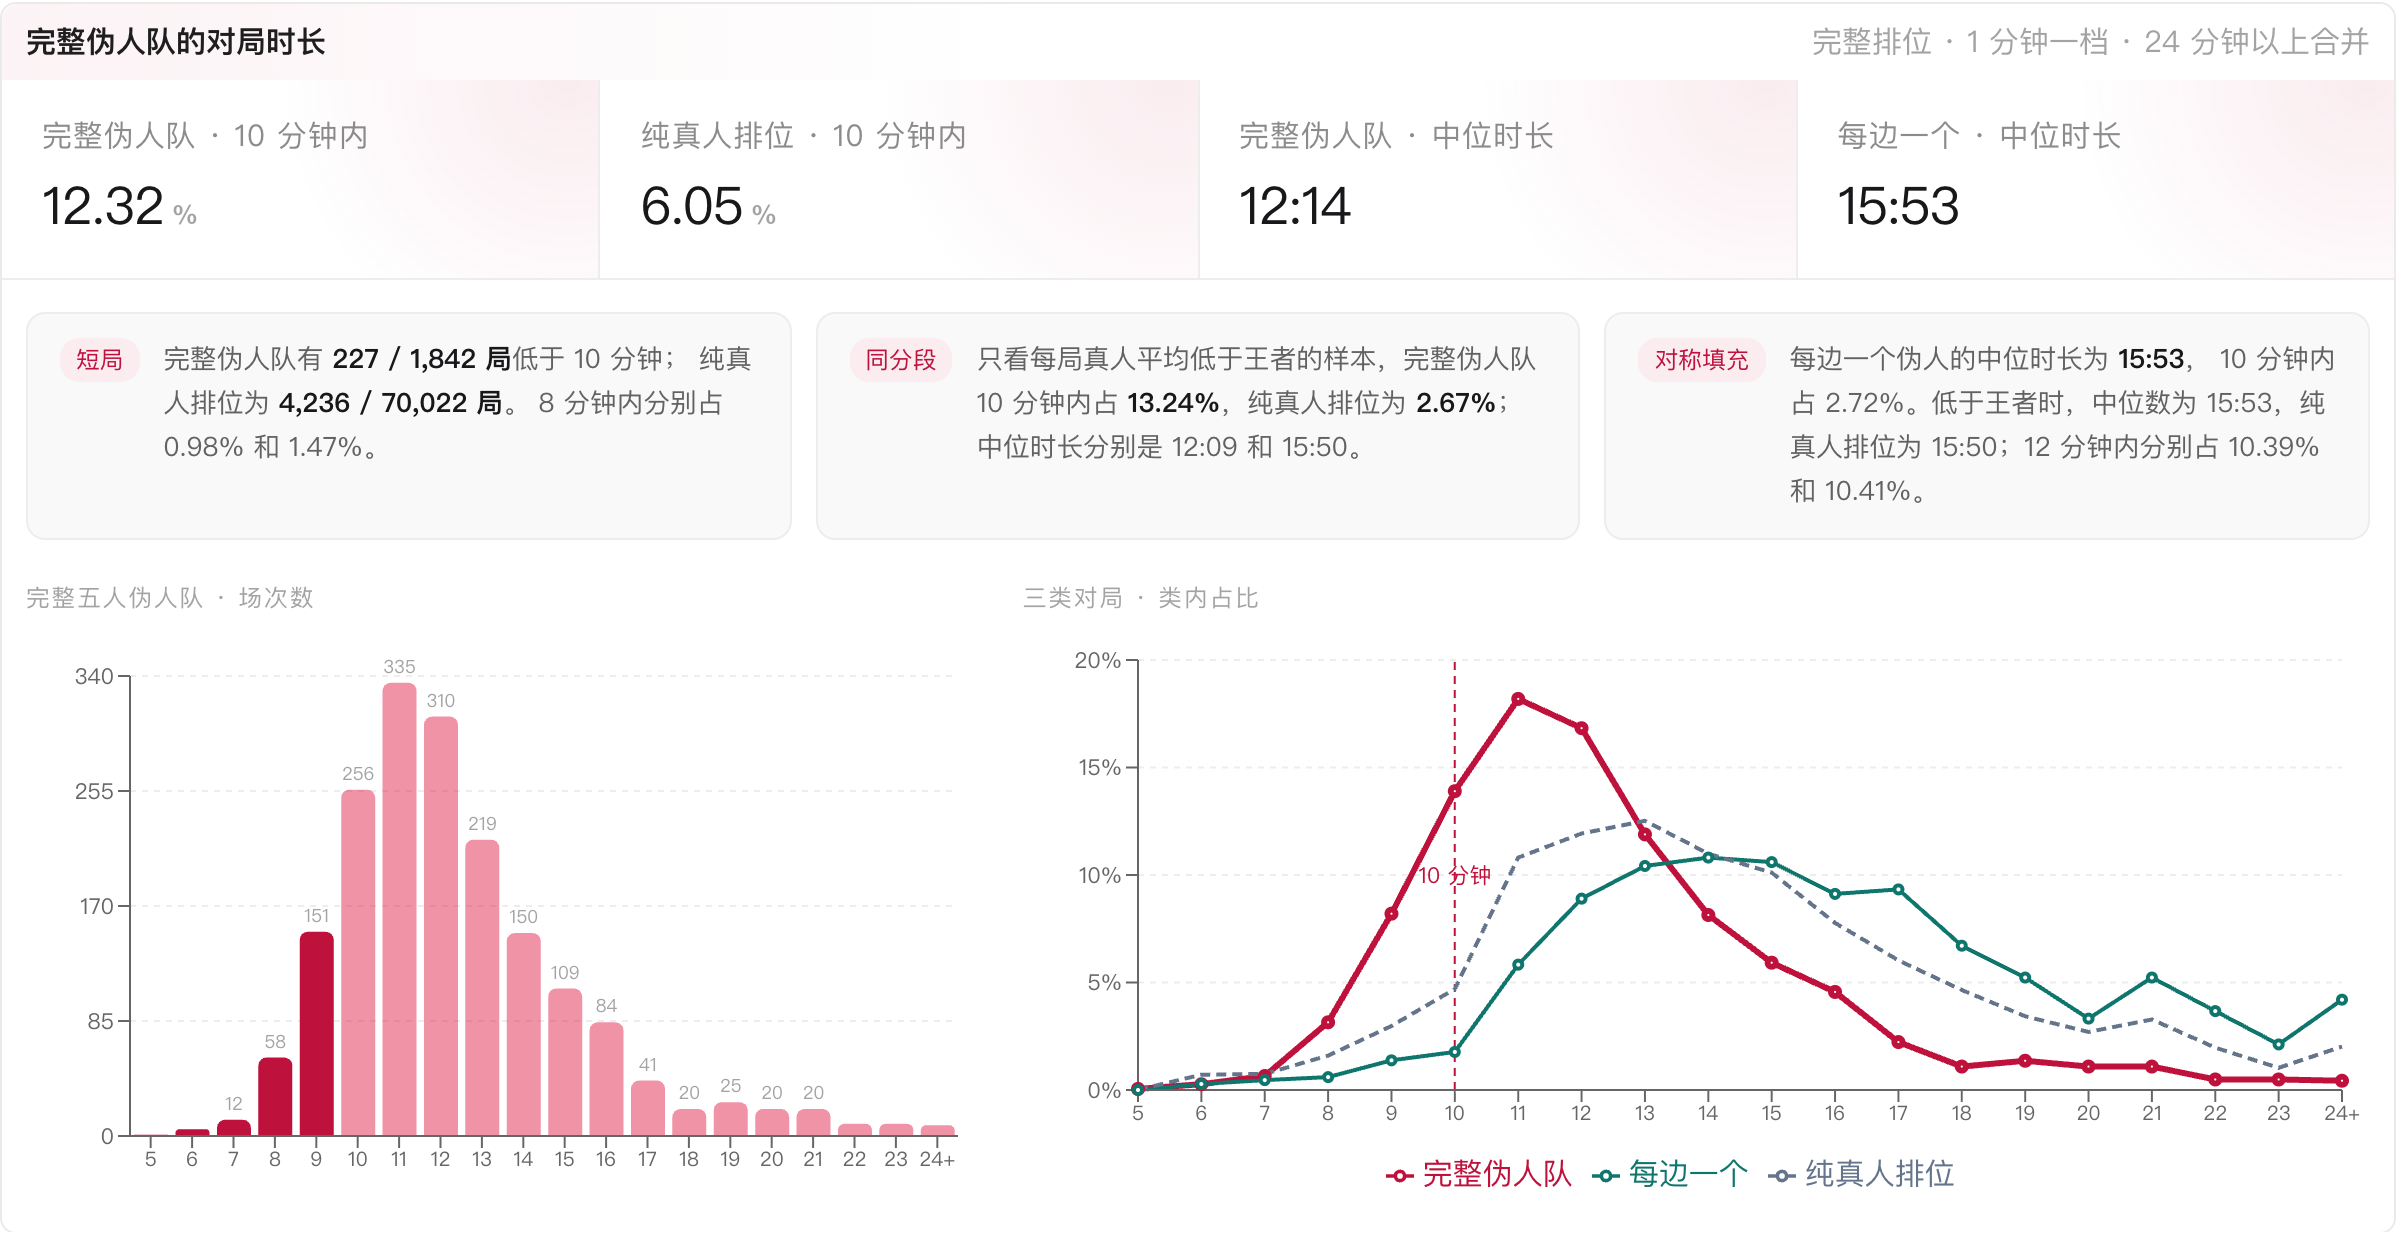
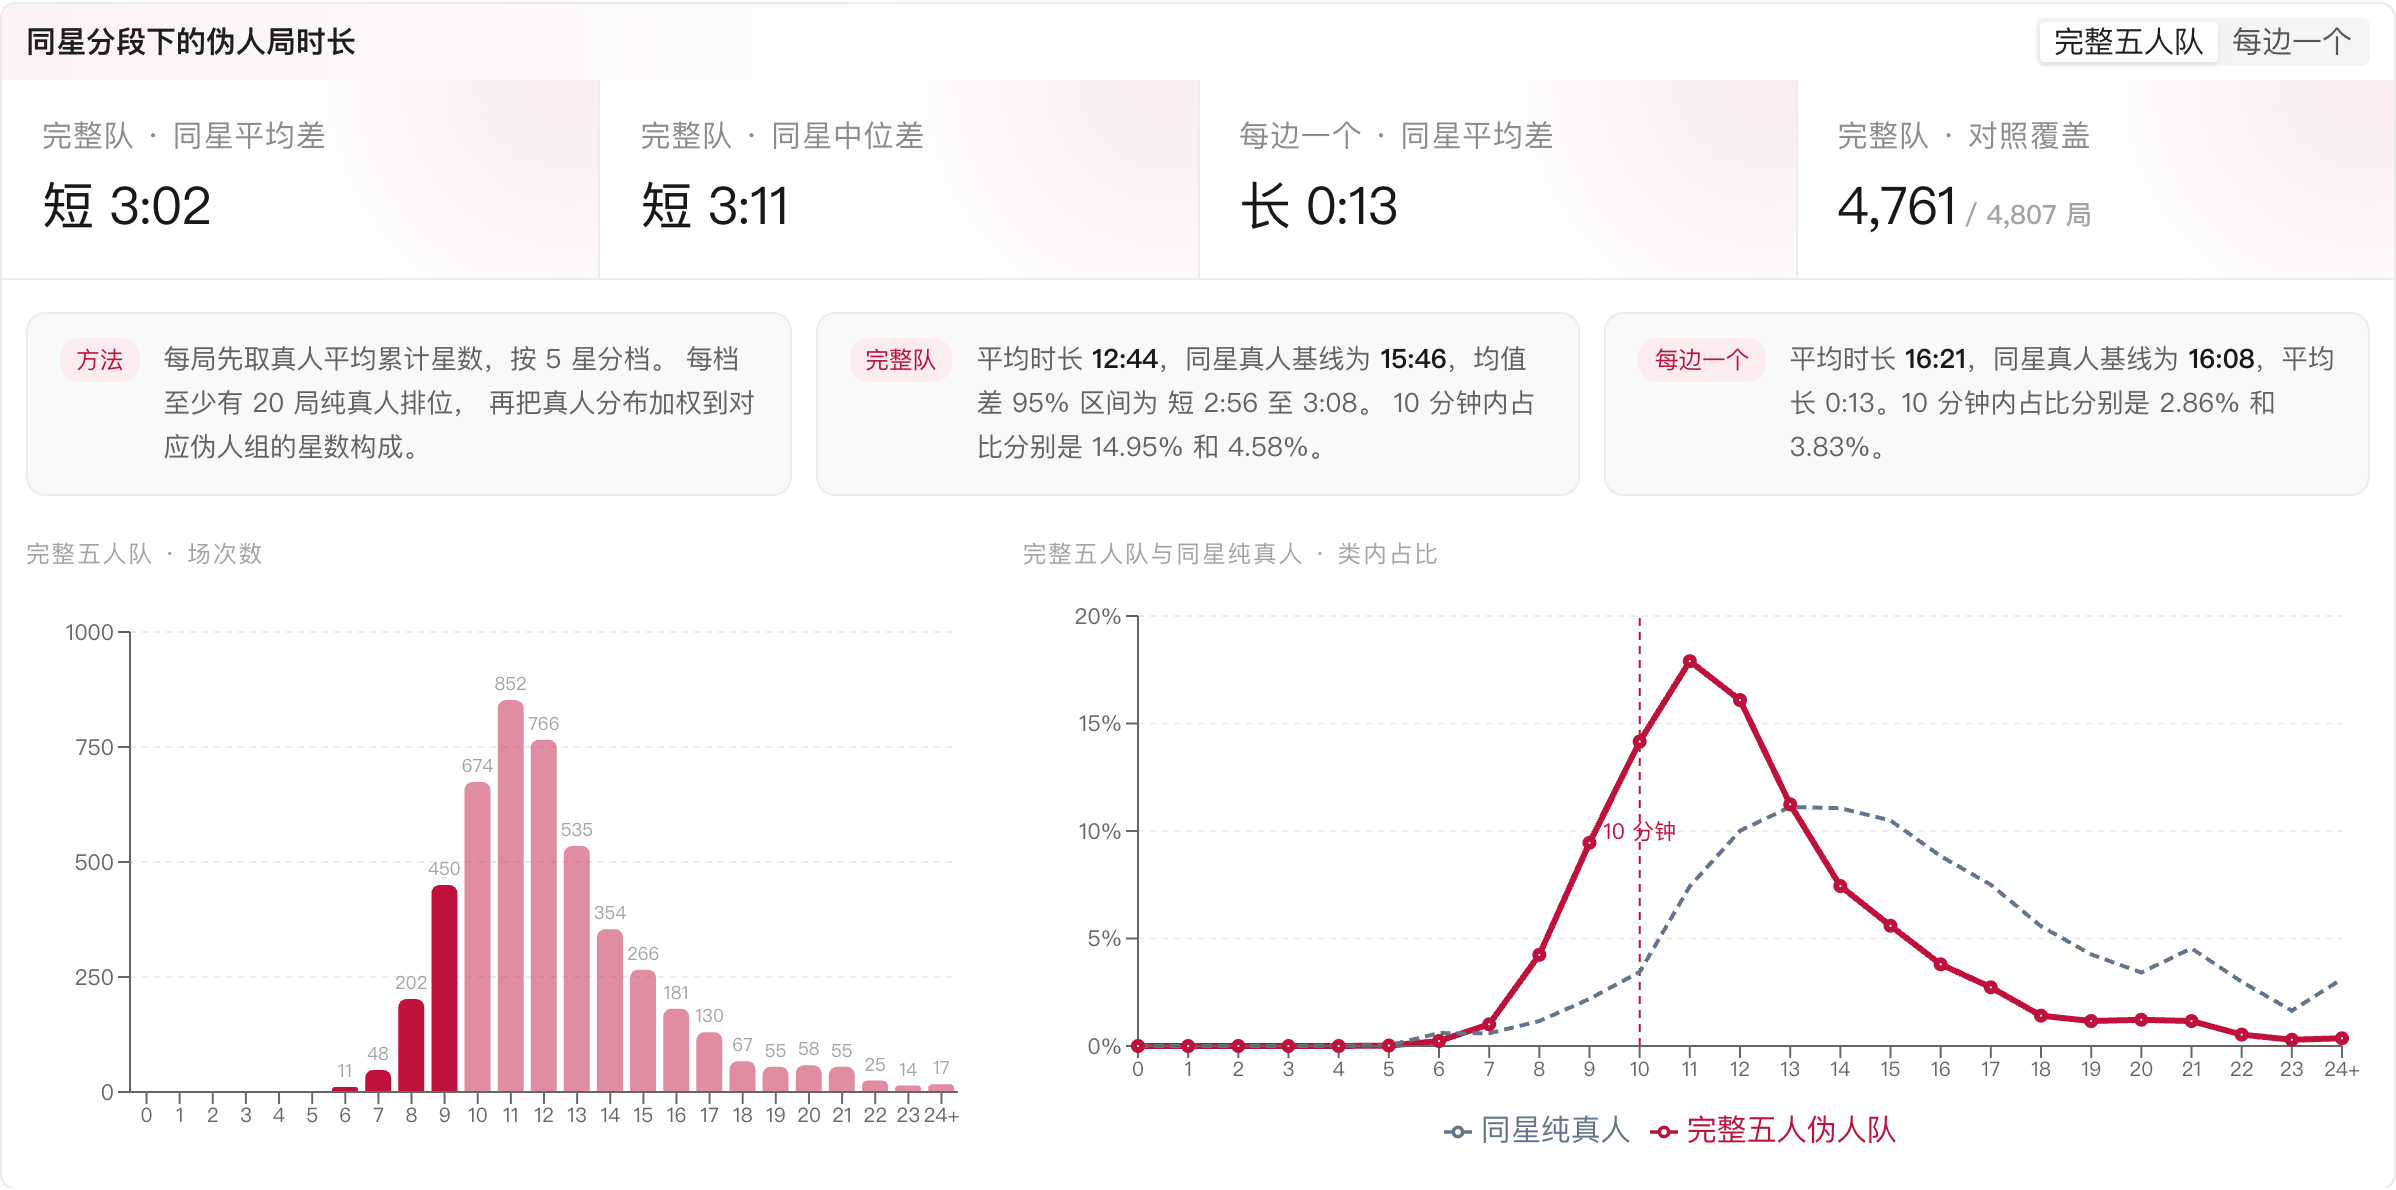
docs(wzry): 校正伪人局时长对照

diff --git a/src/content/posts/WZRY-Analysis-2.md b/src/content/posts/WZRY-Analysis-2.md
@@ -107,19 +107,18 @@ description: 从游戏客户端的真实响应里，我收集了 60 万名玩家
 
 这里甚至能查到一部分伪人开放的历史战绩。这种现象很容易让人怀疑真人账号被拿去填充；目前只能确认身份键复用和 9 组时间重叠，uid 生成机制仍未知。
 
-### 五人伪人局结束得很快
+### 五人伪人局在同段位下仍然结束得很快
 
-三类排位按一分钟统计：
+我之前直接拿三类排位的总体分布做比较，这里混入了段位构成的影响：高星局的伪人出现率低，而高星局本来就打得更短。8 月 4 日，我用扩充后的样本重算了一次。每局先取真人的平均累计星数，按五颗星分档；纯真人分桶至少有 20 局才进入对照，再按两类伪人局各自的星数构成给真人样本加权。
 
-| 排位类型 | 对局数 | 中位数 | 10 分钟内 | 12 分钟内 | 20 分钟以上 |
-| --- | ---: | ---: | ---: | ---: | ---: |
-| 一方五个伪人 | 1,842 | 12:14 | 12.32% | 44.41% | 3.58% |
-| 每边一个伪人 | 2,830 | 15:53 | 2.72% | 10.32% | 18.55% |
-| 普通排位 | 70,022 | 14:17 | 6.05% | 21.56% | 11.00% |
+| 排位类型 | 进入同星对照 | 本组平均 | 对照平均 | 本组中位数 | 对照中位数 | 10 分钟内（本组 / 对照） |
+| --- | ---: | ---: | ---: | ---: | ---: | ---: |
+| 一方五个伪人 | 4,761 / 4,807 | 12:44 | 15:46 | 12:05 | 15:16 | 14.95% / 4.58% |
+| 每边一个伪人 | 3,391 / 3,422 | 16:21 | 16:08 | 15:51 | 15:42 | 2.86% / 3.83% |
 
-![完整五人伪人队、每边一个伪人和普通排位的一分钟时长分布](/upload/images/2026-07-28-WZRY-Analysis-2/ai-duration-distribution.png)
+![完整五人伪人队与同星分段纯真人排位的一分钟时长分布](/upload/images/2026-07-28-WZRY-Analysis-2/ai-duration-distribution.png)
 
-完整五人伪人队的最短一局是 5:56。只看王者以下，它们的中位时长为 12:09，普通排位为 15:50，分段差异解释不了三分多钟的时长差。
+完整五人队的平均时长仍然短 3:02，95% 区间为短 2:56 至 3:08；中位数短 3:11。校正段位构成后，差距还比总体对照更大。每边一个伪人的平均时长只多 13 秒，中位数多 9 秒，10 分钟内占比还略低于同星真人局。这组的时长分布基本贴着同星真人基线，短局特征集中在完整五人伪人队。
 
 一天内没有固定的伪人时段。按场次数看，完整五人队在 22 点占比最高，为 8.96%；双方各一个在 21 点最高，为 9.75%。按该小时全部排位计算，19 点的两类出现率最高，分别为 3.36% 和 5.72%。
 
